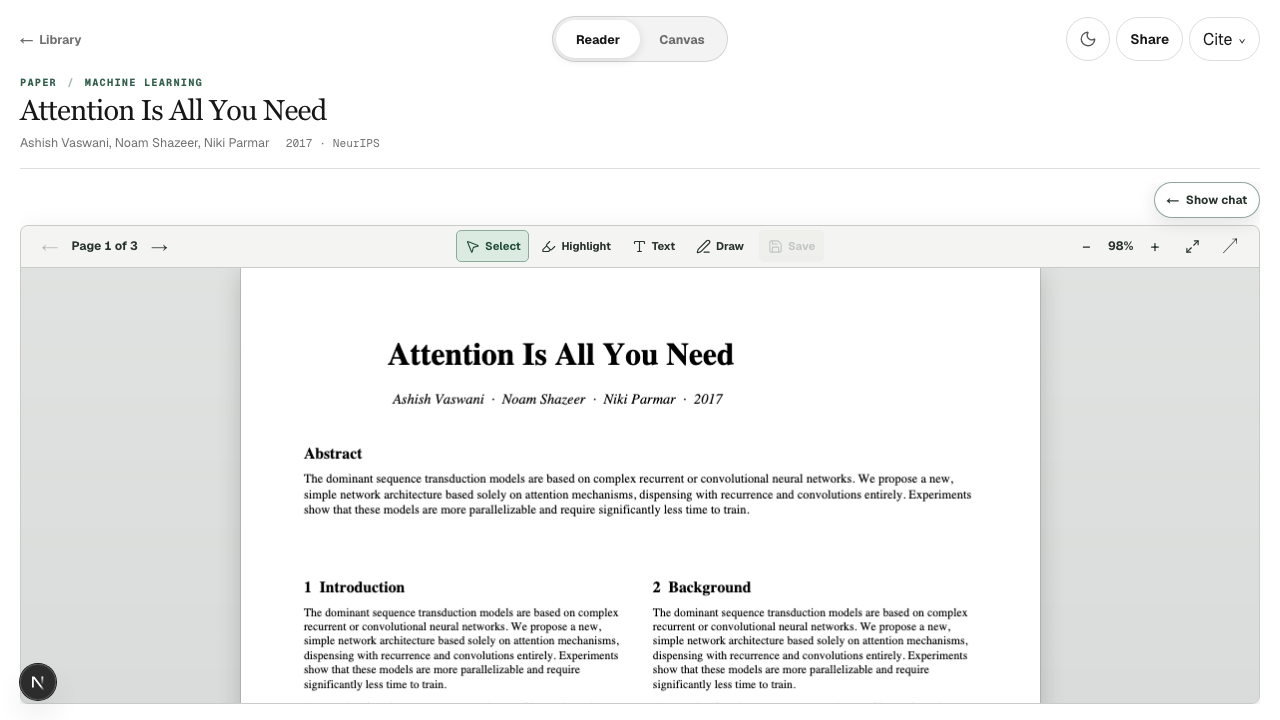
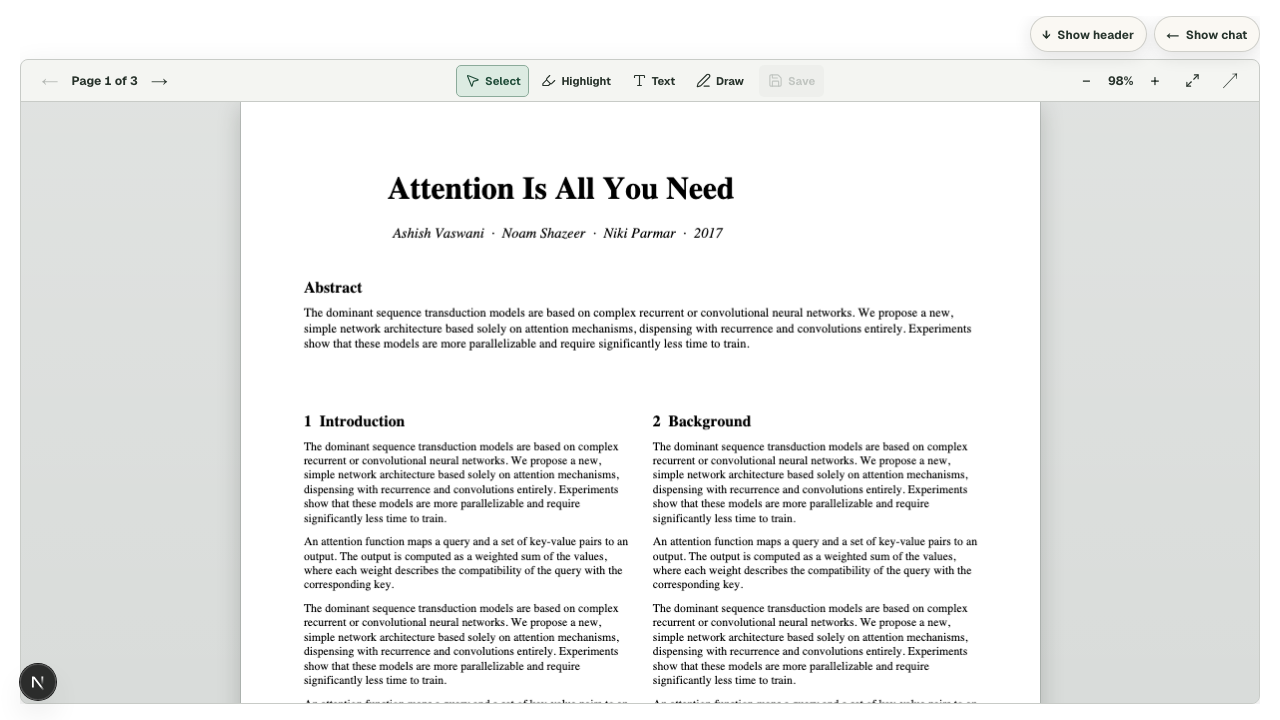
reader: independent header and chat visibility with a text-only focus mode
Problem: the reading workspace only offered two states — everything
visible, or chat hidden with the page header still consuming the top
of the screen — so there was no full-width text view short of the
reader's transient fullscreen, and no header-less state that keeps
the chat.

Approach: ReadingWorkspace owns the page header via a header prop
(the paper and canvas pages pass PaperHeader through it) with its
own persisted visibility alongside the existing chat visibility.
Focus reading now hides both — text only — while Show chat and the
new Hide/Show header toggle move each independently, making all four
combinations reachable. The docs e2e restores header and chat before
navigating by header links, asserts the header is gone in focus
mode, and the paper-focus screenshot baseline is regenerated to the
new full-width layout.

Result: npm run ci green and all six Playwright docs journeys pass
locally with the updated baseline.

diff --git a/src/components/chat/ReadingWorkspace.tsx b/src/components/chat/ReadingWorkspace.tsx
@@ -8,22 +8,40 @@ interface ReadingWorkspaceProps {
   main: ReactNode;
   chat: ReactNode;
   mainLabel: string;
+  /** Page chrome (title, breadcrumbs) the header toggle can hide. */
+  header?: ReactNode;
 }
 
 const CHAT_VISIBILITY_KEY = "papernook:reading-chat-visible";
 const CHAT_VISIBILITY_EVENT = "papernook:reading-chat-changed";
+const HEADER_VISIBILITY_KEY = "papernook:reading-header-visible";
+const HEADER_VISIBILITY_EVENT = "papernook:reading-header-changed";
 
-function subscribe(onStoreChange: () => void): () => void {
-  window.addEventListener("storage", onStoreChange);
-  window.addEventListener(CHAT_VISIBILITY_EVENT, onStoreChange);
-  return () => {
-    window.removeEventListener("storage", onStoreChange);
-    window.removeEventListener(CHAT_VISIBILITY_EVENT, onStoreChange);
+function subscribeTo(event: string) {
+  return (onStoreChange: () => void): (() => void) => {
+    window.addEventListener("storage", onStoreChange);
+    window.addEventListener(event, onStoreChange);
+    return () => {
+      window.removeEventListener("storage", onStoreChange);
+      window.removeEventListener(event, onStoreChange);
+    };
   };
 }
 
+const subscribe = subscribeTo(CHAT_VISIBILITY_EVENT);
+const subscribeHeader = subscribeTo(HEADER_VISIBILITY_EVENT);
+
 function chatIsVisible(): boolean {
   return window.localStorage.getItem(CHAT_VISIBILITY_KEY) !== "hidden";
+}
+
+function headerIsVisible(): boolean {
+  return window.localStorage.getItem(HEADER_VISIBILITY_KEY) !== "hidden";
+}
+
+function setVisibility(key: string, event: string, visible: boolean): void {
+  window.localStorage.setItem(key, visible ? "visible" : "hidden");
+  window.dispatchEvent(new Event(event));
 }
 
 function subscribeToCompact(onStoreChange: () => void): () => void {
@@ -40,10 +58,16 @@ export function ReadingWorkspace({
   main,
   chat,
   mainLabel,
+  header,
 }: ReadingWorkspaceProps) {
   const chatVisible = useSyncExternalStore(
     subscribe,
     chatIsVisible,
+    () => true,
+  );
+  const headerVisible = useSyncExternalStore(
+    subscribeHeader,
+    headerIsVisible,
     () => true,
   );
   const compact = useSyncExternalStore(
@@ -59,11 +83,21 @@ export function ReadingWorkspace({
   const chatPanelId = `${baseId}-chat-panel`;
 
   function toggleChat(): void {
-    window.localStorage.setItem(
-      CHAT_VISIBILITY_KEY,
-      chatVisible ? "hidden" : "visible",
+    if (chatVisible) {
+      // Focus reading is the everything-off mode: text only.
+      setVisibility(CHAT_VISIBILITY_KEY, CHAT_VISIBILITY_EVENT, false);
+      setVisibility(HEADER_VISIBILITY_KEY, HEADER_VISIBILITY_EVENT, false);
+      return;
+    }
+    setVisibility(CHAT_VISIBILITY_KEY, CHAT_VISIBILITY_EVENT, true);
+  }
+
+  function toggleHeader(): void {
+    setVisibility(
+      HEADER_VISIBILITY_KEY,
+      HEADER_VISIBILITY_EVENT,
+      !headerVisible,
     );
-    window.dispatchEvent(new Event(CHAT_VISIBILITY_EVENT));
   }
 
   function selectAdjacentTab(event: React.KeyboardEvent<HTMLDivElement>): void {
@@ -77,67 +111,83 @@ export function ReadingWorkspace({
   }
 
   return (
-    <div
-      className={`${styles.root} ${chatVisible ? "" : styles.focusMode}`}
-      data-chat-visible={chatVisible}
-      data-compact-tab={compactTab}
-    >
+    <>
+      {header && headerVisible && header}
       <div
-        className={styles.mobileTabs}
-        role="tablist"
-        aria-label="Paper workspace"
-        onKeyDown={selectAdjacentTab}
+        className={`${styles.root} ${chatVisible ? "" : styles.focusMode}`}
+        data-chat-visible={chatVisible}
+        data-compact-tab={compactTab}
       >
-        <button
-          id={readingTabId}
-          type="button"
-          role="tab"
-          aria-selected={compactTab === "reading"}
-          aria-controls={readingPanelId}
-          tabIndex={compactTab === "reading" ? 0 : -1}
-          onClick={() => setCompactTab("reading")}
+        <div
+          className={styles.mobileTabs}
+          role="tablist"
+          aria-label="Paper workspace"
+          onKeyDown={selectAdjacentTab}
         >
-          Reading
-        </button>
-        <button
-          id={chatTabId}
-          type="button"
-          role="tab"
-          aria-selected={compactTab === "chat"}
-          aria-controls={chatPanelId}
-          tabIndex={compactTab === "chat" ? 0 : -1}
-          onClick={() => setCompactTab("chat")}
+          <button
+            id={readingTabId}
+            type="button"
+            role="tab"
+            aria-selected={compactTab === "reading"}
+            aria-controls={readingPanelId}
+            tabIndex={compactTab === "reading" ? 0 : -1}
+            onClick={() => setCompactTab("reading")}
+          >
+            Reading
+          </button>
+          <button
+            id={chatTabId}
+            type="button"
+            role="tab"
+            aria-selected={compactTab === "chat"}
+            aria-controls={chatPanelId}
+            tabIndex={compactTab === "chat" ? 0 : -1}
+            onClick={() => setCompactTab("chat")}
+          >
+            Chat
+          </button>
+        </div>
+        <section
+          id={readingPanelId}
+          className={styles.main}
+          aria-label={mainLabel}
+          role={compact ? "tabpanel" : undefined}
+          aria-labelledby={compact ? readingTabId : undefined}
         >
-          Chat
-        </button>
+          {main}
+        </section>
+        <aside
+          id={chatPanelId}
+          className={`${styles.chat} ${chatVisible ? "" : styles.desktopChatHidden}`}
+          role={compact ? "tabpanel" : undefined}
+          aria-labelledby={compact ? chatTabId : undefined}
+        >
+          {chat}
+        </aside>
+        <div className={styles.toggleRow}>
+          {header && (
+            <button
+              type="button"
+              className={styles.toggle}
+              onClick={toggleHeader}
+              aria-expanded={headerVisible}
+            >
+              <span aria-hidden="true">{headerVisible ? "↑" : "↓"}</span>
+              {headerVisible ? "Hide header" : "Show header"}
+            </button>
+          )}
+          <button
+            type="button"
+            className={styles.toggle}
+            onClick={toggleChat}
+            aria-expanded={chatVisible}
+            aria-controls={chatPanelId}
+          >
+            <span aria-hidden="true">{chatVisible ? "→" : "←"}</span>
+            {chatVisible ? "Focus reading" : "Show chat"}
+          </button>
+        </div>
       </div>
-      <section
-        id={readingPanelId}
-        className={styles.main}
-        aria-label={mainLabel}
-        role={compact ? "tabpanel" : undefined}
-        aria-labelledby={compact ? readingTabId : undefined}
-      >
-        {main}
-      </section>
-      <aside
-        id={chatPanelId}
-        className={`${styles.chat} ${chatVisible ? "" : styles.desktopChatHidden}`}
-        role={compact ? "tabpanel" : undefined}
-        aria-labelledby={compact ? chatTabId : undefined}
-      >
-        {chat}
-      </aside>
-      <button
-        type="button"
-        className={styles.toggle}
-        onClick={toggleChat}
-        aria-expanded={chatVisible}
-        aria-controls={chatPanelId}
-      >
-        <span aria-hidden="true">{chatVisible ? "→" : "←"}</span>
-        {chatVisible ? "Focus reading" : "Show chat"}
-      </button>
-    </div>
+    </>
   );
 }

diff --git a/tests/e2e/docs-screenshots.spec.ts b/tests/e2e/docs-screenshots.spec.ts
@@ -169,6 +169,10 @@ test.describe.serial("documentation journeys and screenshots", () => {
     await expect(
       page.getByText("Why attention replaced recurrence"),
     ).not.toBeVisible();
+    // Focus reading hides the page header too — text only.
+    await expect(
+      page.getByRole("link", { name: "Canvas", exact: true }),
+    ).not.toBeVisible();
     await expect(page.getByRole("button", { name: "Show chat" })).toBeVisible();
     await expect(page).toHaveScreenshot(["product", "paper-focus.png"], {
       animations: "disabled",
@@ -188,6 +192,13 @@ test.describe.serial("documentation journeys and screenshots", () => {
     await expect(
       page.getByRole("button", { name: "Paper fullscreen", exact: true }),
     ).toHaveAttribute("aria-pressed", "false");
+
+    // Header and chat come back independently.
+    await page.getByRole("button", { name: "Show chat" }).click();
+    await page.getByRole("button", { name: "Show header" }).click();
+    await expect(
+      page.getByRole("link", { name: "Canvas", exact: true }),
+    ).toBeVisible();
 
     await page.goto(`${readerUrl}/canvas`);
     await expect(page).toHaveURL(`${readerUrl}/canvas`);

diff --git a/src/app/paper/[topic]/[slug]/canvas/page.tsx b/src/app/paper/[topic]/[slug]/canvas/page.tsx
@@ -42,9 +42,16 @@ export default async function CanvasPage({ params }: CanvasPageProps) {
 
   return (
     <main className={styles.root}>
-      <PaperHeader topic={topic} slug={slug} meta={paper.meta} view="canvas" />
       <ReadingWorkspace
         mainLabel="Canvas"
+        header={
+          <PaperHeader
+            topic={topic}
+            slug={slug}
+            meta={paper.meta}
+            view="canvas"
+          />
+        }
         main={
           <CanvasClient
             topic={topic}

diff --git a/src/app/paper/[topic]/[slug]/page.tsx b/src/app/paper/[topic]/[slug]/page.tsx
@@ -24,10 +24,11 @@ export default async function PaperPage({ params }: PaperPageProps) {
   const meta = paper.meta;
   return (
     <main className={styles.root}>
-      <PaperHeader topic={topic} slug={slug} meta={meta} view="reader" />
-
       <ReadingWorkspace
         mainLabel="Paper PDF"
+        header={
+          <PaperHeader topic={topic} slug={slug} meta={meta} view="reader" />
+        }
         main={
           <PdfReader
             src={`/api/v1/papers/${topic}/${slug}/pdf`}

diff --git a/src/components/chat/ReadingWorkspace.module.css b/src/components/chat/ReadingWorkspace.module.css
@@ -51,10 +51,15 @@
   display: none;
 }
 
-.toggle {
+.toggleRow {
   grid-column: 1 / -1;
   grid-row: 1;
   justify-self: end;
+  display: inline-flex;
+  gap: 0.45rem;
+}
+
+.toggle {
   min-height: 36px;
   display: inline-flex;
   align-items: center;
